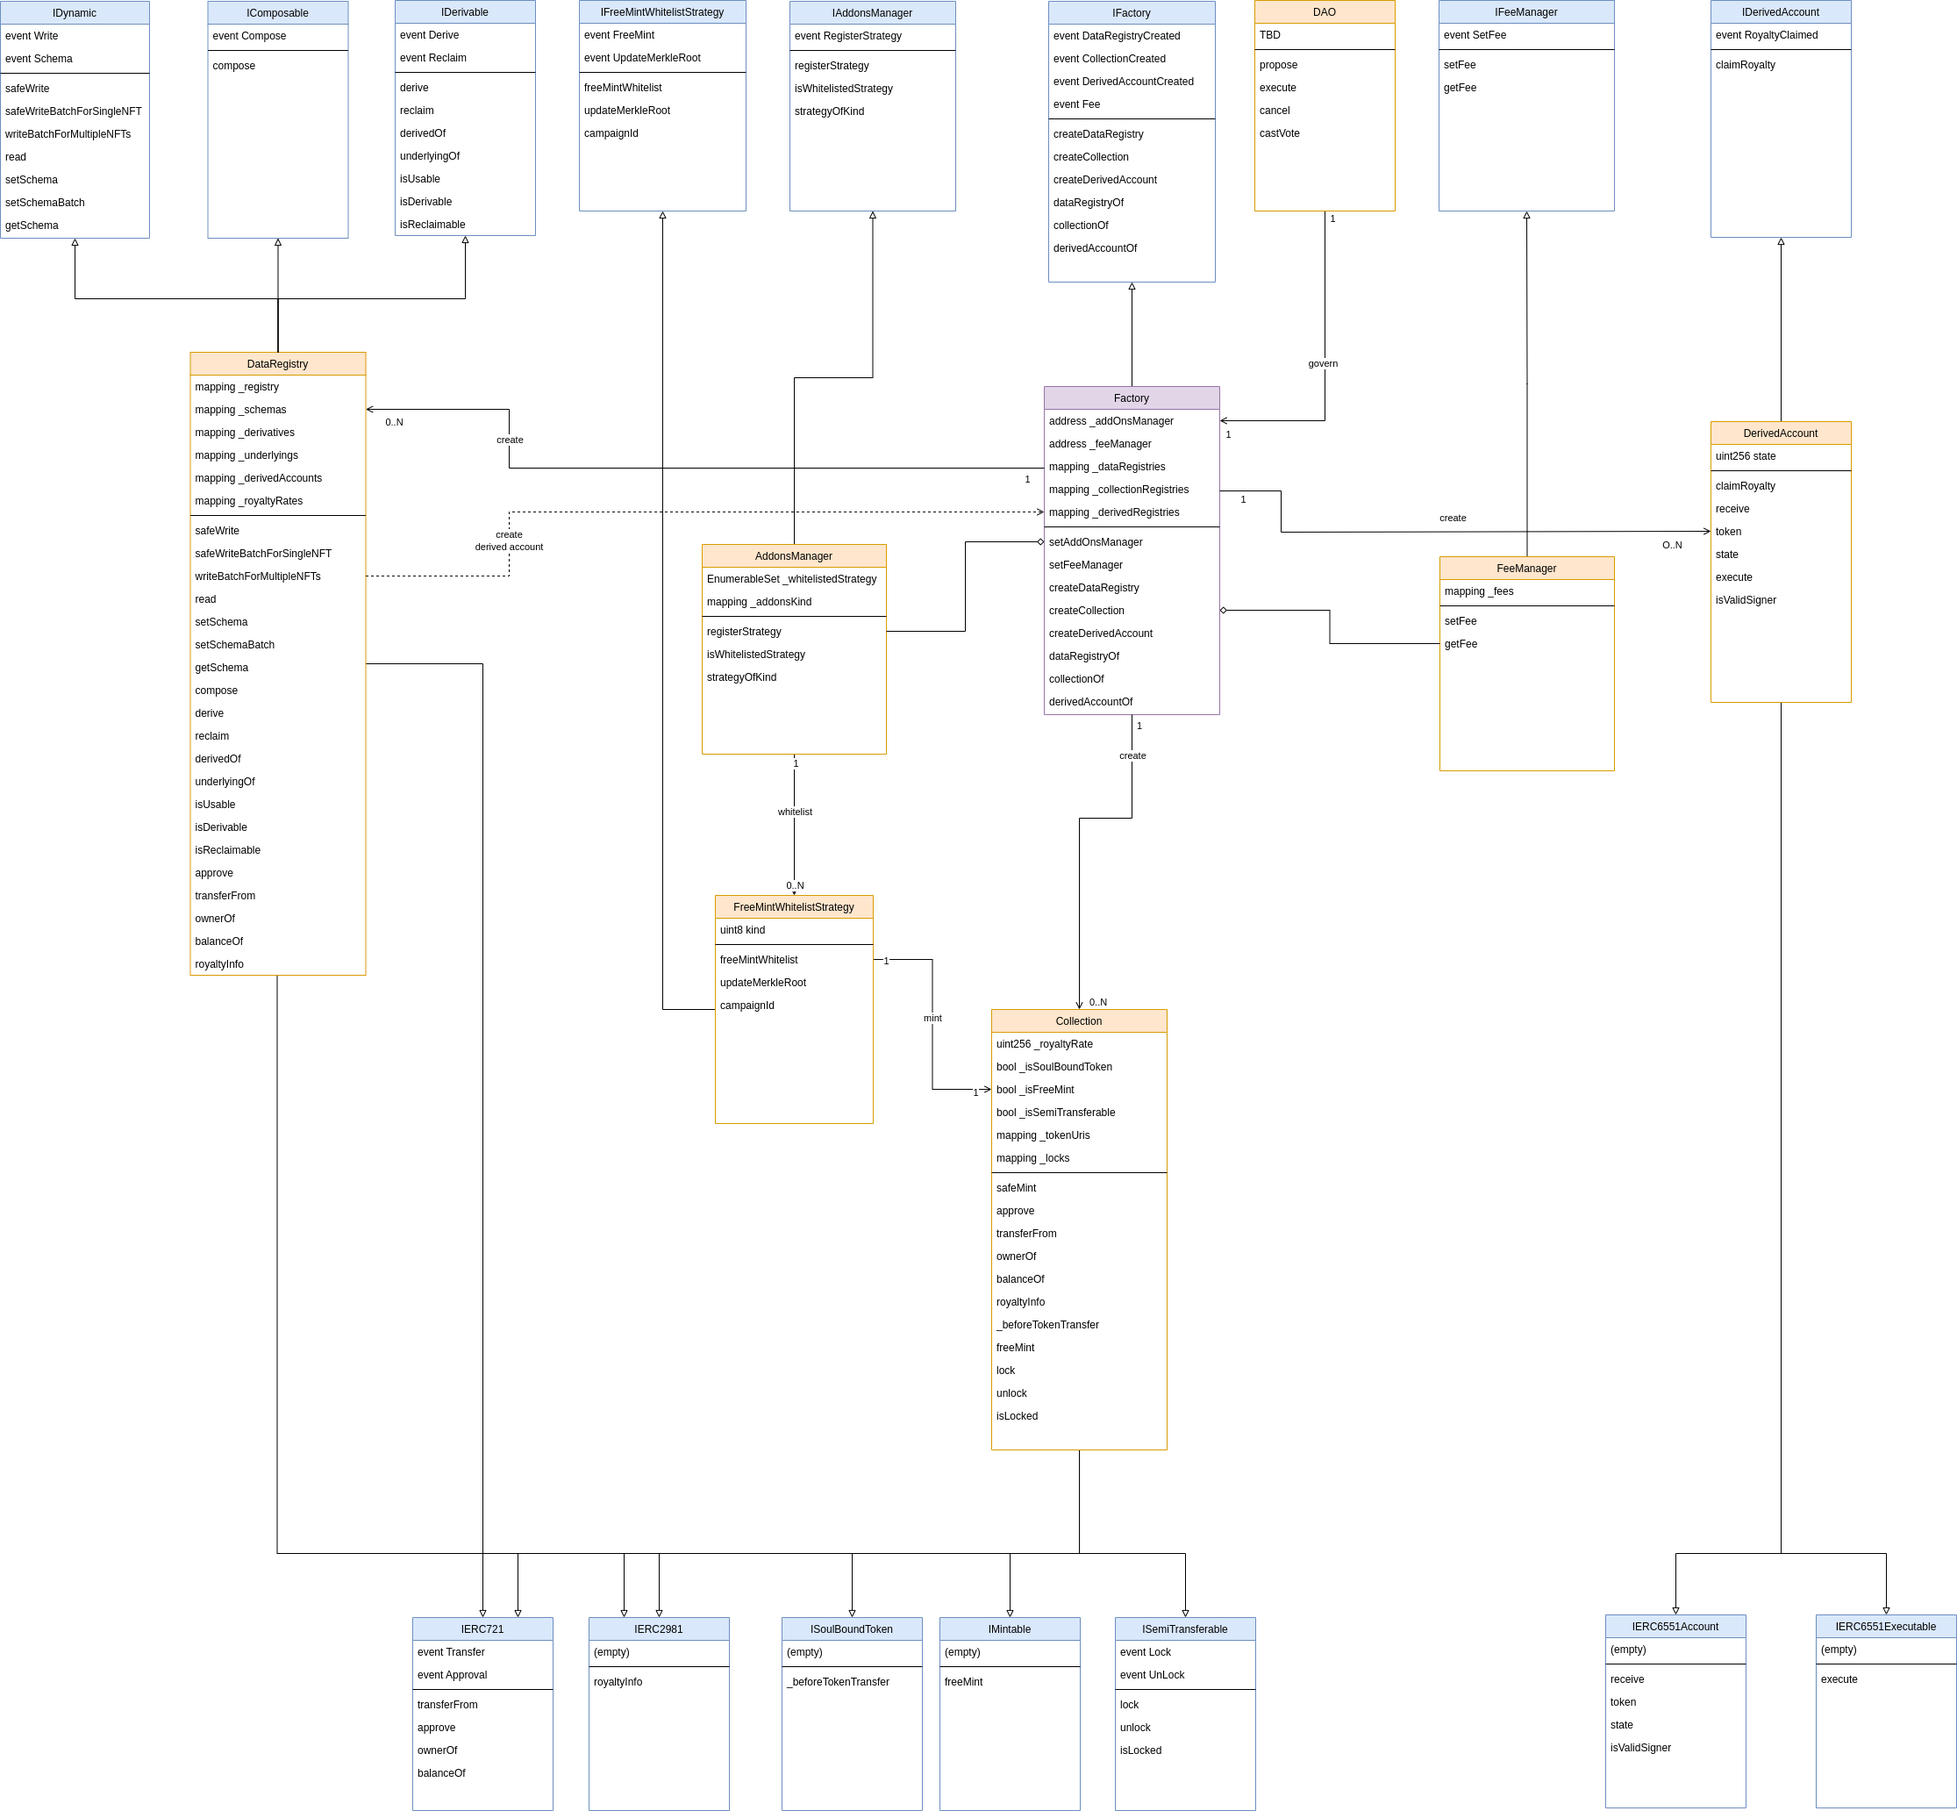
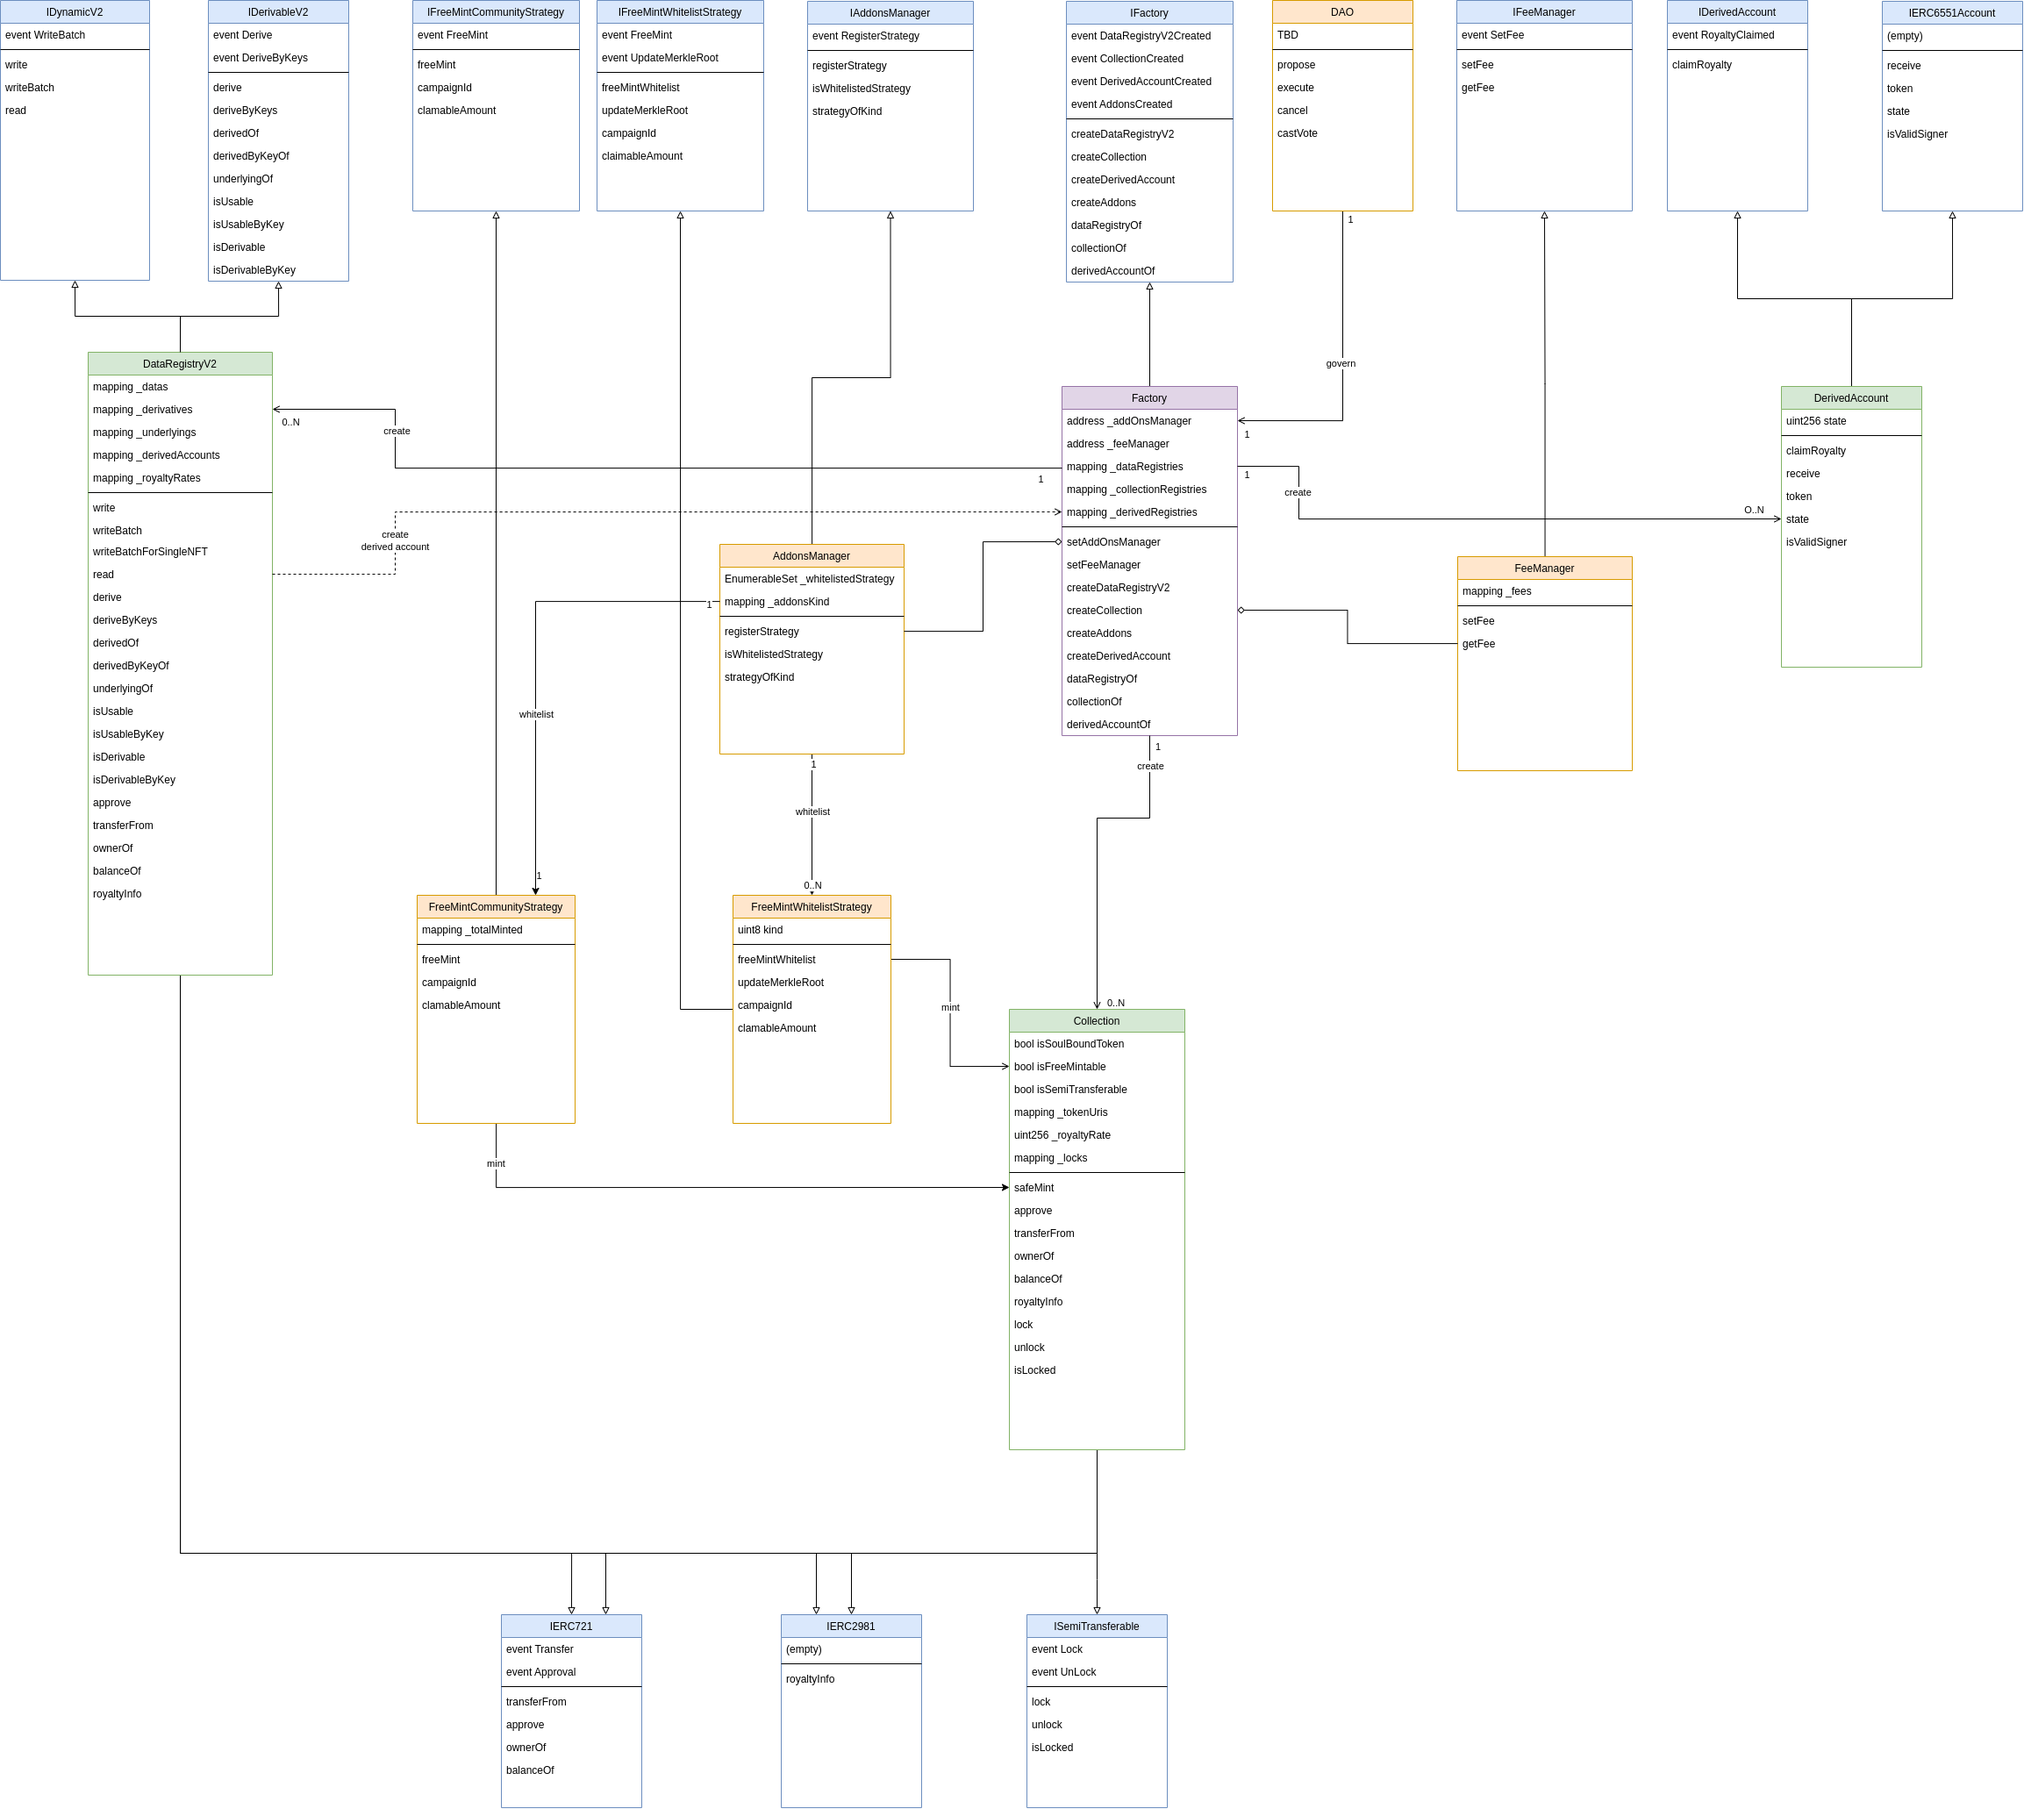
update diagram

diff --git a/README.md b/README.md
@@ -14,7 +14,7 @@ Smart contracts for NFT2.0 Protocol, the universal WEB3 protocol for dynamic NFT
 
 - Main classes:
 > 1. Factory: in charge of creating Data registries, NFT collections, Derived accounts, ERC6551 accounts. It also manages a self-registry in order to lookup all aforementioned entities.
-> 2. DataRegistry: the smart contract template of data registry, which is used by the factory. The data registry would implement protocol interfaces: IDynamic, IComposable, IDerivables. The data registry is also in charge of creating the derived account, which essentially is a Token-bound-account (ERC6551) of underlying NFT, where the royalty commission will be accrued.
+> 2. DataRegistryV2: the smart contract template of data registry, which is used by the factory. The data registry would implement protocol interfaces: IDynamicV2, IDerivablesV2. The data registry is also in charge of creating the derived account, which essentially is a Token-bound-account (ERC6551) of underlying NFT, where the royalty commission will be accrued.
 > 3. Collection: the smart contract template of NFT collection, which is used by the factory. The NFT collection would implement standard ERC721 interface and other extensions, which is included but not limited to: ERC2981 (royalty), Soul Bound Token, Free mint, etc. Collection also implements our proprietary interface Semi-Transferable.
 > 4. DerivedAccount: Token bound account (ERC6551) for underlying NFT, which accrues royalty commission of derived NFT. We intentionally divert the royalty commission to derived account, in order to properly distribute royalty to both NFT owner (derived-NFT creator) and NFT creator. Anyone can claim royalty on derived account in a permissionless manner, provided that he pays sufficient gas, in this case, royalty commission will be distributed pro-rata to NFT owner and NFT creator.
 > 5. Addons: addons for ERC721 collections, which is included but not limited to: Whitelisted freemint, etc.
@@ -145,6 +145,8 @@ $ FACTORY=<address> \
 ACTION=0 \
 npx hardhat run scripts/upgrade-factory.ts
 ```
+
+
 
 ## Verify contract
 - Obtain and fulfill BSCScan / Snowtrace / etc API key to .env file
